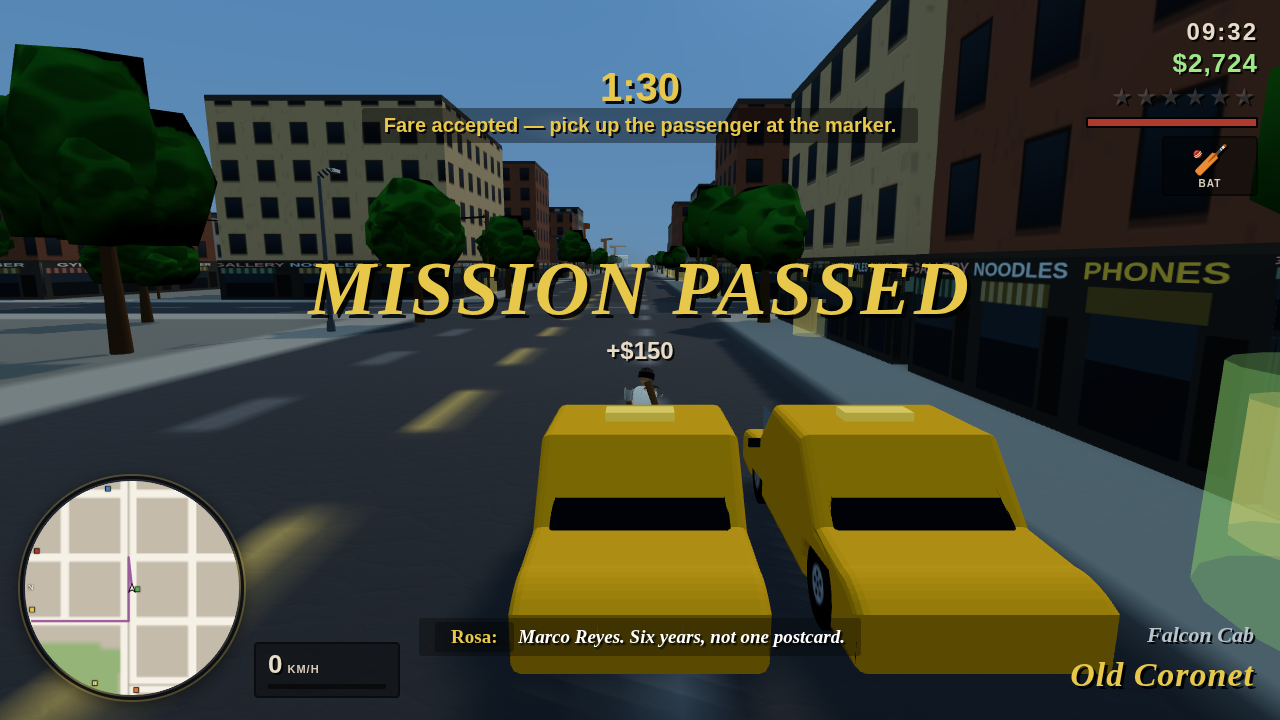
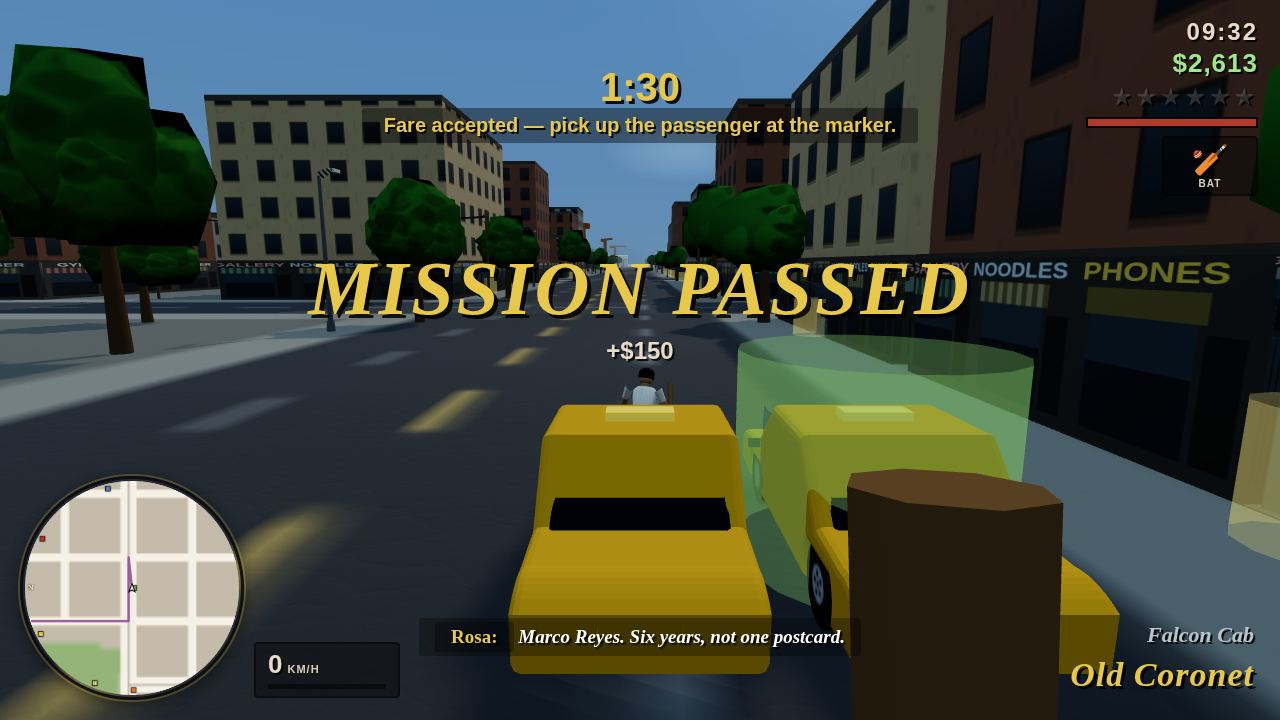
I4: NPCs sense the world — sight cones, hearing beats, discovery, memory
- Pedestrians have a real field of view (~110°, 28m, wall-checked line of
  sight). Nothing reacts to what it cannot see anymore.
- Loud events (gunshots, explosions, crashes, screams, car alarms) are
  heard, not known: peds out of view freeze, turn toward the sound, and
  react after a personality-scaled beat.
- Walking around with a gun out makes people who actually SEE it nervous —
  timid ones clear off, civic-minded ones may call the police.
- Corpses are discovered: walking into view of a body triggers a scream,
  flight, or a police call.
- Sprinting into someone makes them stumble and protest, and they keep
  their distance from you for a while afterwards.
- Gang corners are owned turf: linger and you get a warning; stay and the
  whole corner jumps you.
- Carjack victims scream as they're pulled out; heads turn.
- test/senses.mjs wired into npm test.

Claude-Session: https://claude.ai/code/session_01H4wwD5yAZ1wPBuduGiv7Fk

diff --git a/src/entities/ped.js b/src/entities/ped.js
@@ -112,6 +112,30 @@ export class Ped {
     }
   }
 
+  // ---- senses ----------------------------------------------------
+  // sight: ~110° cone, limited range, real line of sight through walls
+  seePoint(x, z, { fov = 1.92, range = 28 } = {}) {
+    const dx = x - this.pos.x, dz = z - this.pos.z;
+    const d = Math.hypot(dx, dz);
+    if (d > range) return false;
+    if (d > 1.2) {
+      let rel = Math.atan2(dx, dz) - this.heading;
+      while (rel > Math.PI) rel -= Math.PI * 2;
+      while (rel < -Math.PI) rel += Math.PI * 2;
+      if (Math.abs(rel) > fov / 2) return false;
+    }
+    return this.game?.wanted?.lineOfSight(
+      this.pos.x, this.pos.y + 1.5, this.pos.z, x, this.pos.y + 1.2, z) ?? true;
+  }
+
+  // hearing: something loud happened out of view — turn toward it, take a
+  // beat to understand, THEN react. No more psychic instant panics.
+  hearThreat(x, z, kind) {
+    if (this.dead || this.state === 'driver' || this.panicked || this.alarm) return;
+    const b = this.personality?.bravery ?? 0.4;
+    this.alarm = { x, z, kind, t: 0.25 + (1 - b) * 0.45 + Math.random() * 0.25 };
+  }
+
   panic(fromX, fromZ, directlyTargeted = false) {
     if (this.dead || this.state === 'driver') return;
     // already reacting? repeated scares escalate to flat-out fleeing
@@ -184,8 +208,8 @@ export class Ped {
     game.audio?.scream(this.pos.x, this.pos.z);
     game.gore?.blood.pool(this.pos.x, this.pos.z, this.interiorY ?? undefined);
     game.state.stats.kills++;
-    // panic everyone nearby
-    game.peds?.panicAt(this.pos.x, this.pos.z, 26);
+    // the death scream carries — those who see it panic, others turn to look
+    game.peds?.senseEvent?.(this.pos.x, this.pos.z, 'scream');
     // drop some cash; an ambulance may come for the body
     game.worldlife?.dropCash?.(this.pos.x, this.pos.z, 10 + Math.floor(Math.random() * 30));
     game.dispatch?.reportDeath(this);
@@ -217,6 +241,65 @@ export class Ped {
     }
     this.stateT += dt;
     const player = game.player;
+
+    // heard something: freeze, turn toward the sound, then react
+    if (this.alarm && this.state !== 'fight' && this.state !== 'driver') {
+      const a = this.alarm;
+      this.speed = 0;
+      this.rig.setAnim('idle');
+      this.heading = angleDamp(this.heading,
+        Math.atan2(a.x - this.pos.x, a.z - this.pos.z), 7, dt);
+      a.t -= dt;
+      if (a.t <= 0) {
+        this.alarm = null;
+        this.panic(a.x, a.z);
+      }
+      this.rig.update(dt, 0);
+      this.syncRig();
+      return;
+    }
+
+    // fear memory: someone who barrelled into you keeps their distance
+    if (this.avoidPlayerT > 0) {
+      this.avoidPlayerT -= dt;
+      const dxp = this.pos.x - player.pos.x, dzp = this.pos.z - player.pos.z;
+      const dp = Math.hypot(dxp, dzp);
+      if (dp < 3.5 && dp > 0.01 && !player.vehicle) {
+        this.pos.x += (dxp / dp) * dt * 1.6;
+        this.pos.z += (dzp / dp) * dt * 1.6;
+      }
+    }
+
+    // gang corners are owned turf: linger and you get warned, then jumped
+    if (this.archetype === 'gangster' && this.loiter && !this.dead &&
+        !player.dead && !player.vehicle && this.state !== 'fight') {
+      const dg = dist2d(this.pos.x, this.pos.z, player.pos.x, player.pos.z);
+      if (dg < 6) {
+        this._lingerT = (this._lingerT ?? 0) + dt;
+        if (this._lingerT > 4 && !this._warned) {
+          this._warned = true;
+          this.bark('bark_backoff');
+          this.heading = Math.atan2(player.pos.x - this.pos.x, player.pos.z - this.pos.z);
+        }
+        if (this._lingerT > 9) {
+          // the whole corner jumps you
+          this.state = 'fight';
+          this.panicked = true;
+          this.stateT = 0;
+          for (const buddy of game.peds?.peds ?? []) {
+            if (buddy !== this && !buddy.dead && buddy.archetype === 'gangster' &&
+                dist2d(buddy.pos.x, buddy.pos.z, this.pos.x, this.pos.z) < 15) {
+              buddy.state = 'fight';
+              buddy.panicked = true;
+              buddy.stateT = 0;
+            }
+          }
+        }
+      } else if (dg > 8) {
+        this._lingerT = 0;
+        this._warned = false;
+      }
+    }
 
     switch (this.state) {
       case 'wander': {

diff --git a/src/systems/peds.js b/src/systems/peds.js
@@ -28,6 +28,13 @@ export class PedSystem {
     const game = this.game;
     const p = game.player.pos;
 
+    // slow scanner: brandished weapons and corpse discovery (0.5s cadence)
+    this.scanT = (this.scanT ?? 0) - dt;
+    if (this.scanT <= 0) {
+      this.scanT = 0.5;
+      this.senseScan();
+    }
+
     // spawn up to target count
     this.spawnTimer -= dt;
     const density = this.densityAt(p.x, p.z);
@@ -80,6 +87,13 @@ export class PedSystem {
           const push = (R * 2 - d) * 0.5;
           a.pos.x -= (dx / d) * push;
           a.pos.z -= (dz / d) * push;
+          // sprinting into someone: they stumble, protest, and remember you
+          if (pl.speed2d > 5.5 && this.game.time - (a._bumpT ?? -9) > 3) {
+            a._bumpT = this.game.time;
+            a.rig.flinch?.();
+            a.bark?.('bark_backoff');
+            a.avoidPlayerT = 20;
+          }
         }
       }
     }
@@ -136,6 +150,72 @@ export class PedSystem {
     }
   }
 
+  // ---- senses ------------------------------------------------------
+  // a loud event: peds who SEE it panic at once; the rest hear it, turn
+  // toward the sound, and react after a beat
+  senseEvent(x, z, kind) {
+    const R = { gunshot: 34, explosion: 32, crash: 18, scream: 14, alarm: 20 }[kind] ?? 20;
+    for (const ped of this.peds) {
+      if (ped.dead || ped.inVehicle || ped.state === 'driver') continue;
+      const d = dist2d(ped.pos.x, ped.pos.z, x, z);
+      if (d > R) continue;
+      if (d < 6 || ped.seePoint?.(x, z, { range: R })) ped.panic(x, z);
+      else ped.hearThreat(x, z, kind);
+    }
+  }
+
+  senseScan() {
+    const game = this.game;
+    const player = game.player;
+    if (player.dead || game.state.mode !== 'play') return;
+
+    // brandishing: walking around with a gun out makes people who SEE it
+    // nervous — they clear off, and civic types may call it in
+    const gunOut = game.combat && !['fists', 'bat'].includes(game.combat.current);
+    const onFoot = !player.vehicle && !game.interiors?.playerInside;
+    if (gunOut && onFoot) {
+      for (const ped of this.peds) {
+        if (ped.dead || ped.panicked || ped.alarm || ped.isCop) continue;
+        if ((ped._waryT ?? 0) > game.time) continue;
+        const d = dist2d(ped.pos.x, ped.pos.z, player.pos.x, player.pos.z);
+        if (d > 14 || !ped.seePoint(player.pos.x, player.pos.z, { range: 14 })) continue;
+        ped._waryT = game.time + 8;
+        const P = ped.personality ?? {};
+        if ((P.civic ?? 0) > 0.65 && Math.random() < 0.4) {
+          ped.fleeFrom.x = player.pos.x; ped.fleeFrom.z = player.pos.z;
+          ped.panicked = true; ped.state = 'call'; ped.callT = 0; ped.stateT = 0;
+          ped.bark('bark_help');
+        } else if ((P.bravery ?? 0) < 0.45 || d < 6) {
+          ped.fleeFrom.x = player.pos.x; ped.fleeFrom.z = player.pos.z;
+          ped.panicked = true; ped.state = 'flee'; ped.stateT = 4;   // short scurry
+          ped.bark('bark_run');
+        }
+        // brave ones just stare — the head-tracking already sells it
+      }
+    }
+
+    // corpse discovery: walking into view of a body is an event
+    const corpses = this.peds.filter((c) => c.dead);
+    if (corpses.length) {
+      for (const ped of this.peds) {
+        if (ped.dead || ped.panicked || ped.alarm || ped._sawCorpse) continue;
+        for (const c of corpses) {
+          const d = dist2d(ped.pos.x, ped.pos.z, c.pos.x, c.pos.z);
+          if (d > 10 || !ped.seePoint(c.pos.x, c.pos.z, { range: 10 })) continue;
+          ped._sawCorpse = true;
+          ped.bark('bark_help');
+          if ((ped.personality?.civic ?? 0) > 0.55) {
+            ped.fleeFrom.x = c.pos.x; ped.fleeFrom.z = c.pos.z;
+            ped.panicked = true; ped.state = 'call'; ped.callT = 0; ped.stateT = 0;
+          } else {
+            ped.panic(c.pos.x, c.pos.z);
+          }
+          break;
+        }
+      }
+    }
+  }
+
   // every human a car or blast can hit: civilians, mission goons, foot
   // cops, and fire/medic crews working a scene
   hitTargets() {
@@ -160,7 +240,7 @@ export class PedSystem {
       const d = dist2d(ped.pos.x, ped.pos.z, x, z);
       if (d < radius && !ped.dead) ped.damage((radius - d) * 18, this.game, 'explosion');
     }
-    this.panicAt(x, z, radius * 4);
+    this.senseEvent(x, z, 'explosion');
   }
 
   checkRunOver(vehicle, speed) {
@@ -215,6 +295,9 @@ export class PedSystem {
   ejectDriver(pedLike, vehicle) {
     if (!pedLike || pedLike === 'player') return;
     const door = vehicle.seatWorldPos();
+    // the victim yells — anyone in earshot turns to look
+    this.game.audio?.scream?.(door.x, door.z);
+    this.senseEvent(door.x, door.z, 'scream');
     pedLike.inVehicle = null;
     pedLike.state = 'flee';
     pedLike.panicked = true;

diff --git a/src/systems/vehicles.js b/src/systems/vehicles.js
@@ -67,6 +67,7 @@ export class VehicleSystem {
     if (impact > 3 && this.game.time - (veh._lastCrashSfxT ?? -9) > 0.25) {
       veh._lastCrashSfxT = this.game.time;
       this.game.audio?.crash?.(impact, veh.pos.x, veh.pos.z);
+      if (impact > 7) this.game.peds?.senseEvent?.(veh.pos.x, veh.pos.z, 'crash');
       if (impact > 12) this.game.particles?.glassBurst(veh.pos.x, veh.pos.y + 1.0, veh.pos.z);
       if (veh.driver === 'player') this.game.cameraRig?.addShake(clamp(impact / 18, 0, 0.8));
     }
@@ -416,6 +417,10 @@ export class VehicleSystem {
         if (v._alarmBeep <= 0) {
           v._alarmBeep = 0.55;
           this.game.audio?.horn(v.pos.x, v.pos.z);
+          if (!v._alarmNoticed) {
+            v._alarmNoticed = true;   // heads turn when the alarm first trips
+            this.game.peds?.senseEvent?.(v.pos.x, v.pos.z, 'alarm');
+          }
         }
         v.updateLightState();
         if (v.alarmT <= 0) { v.alarmT = 0; v.updateLightState(); }

diff --git a/src/systems/combat.js b/src/systems/combat.js
@@ -390,7 +390,7 @@ export class CombatSystem {
     game.particles?.muzzleLight?.(mx, my, mz);
     game.audio?.gunshot(spec.sfx);
     game.wanted?.crime('gunfire', player.pos.x, player.pos.z);
-    game.peds?.panicAt(player.pos.x, player.pos.z, 34);
+    game.peds?.senseEvent?.(player.pos.x, player.pos.z, 'gunshot');
     game.cameraRig.addShake(spec.sfx === 'shotgun' ? 0.35 : 0.12);
     // recoil kick (stronger for big guns) + crosshair bloom
     const kick = spec.sfx === 'shotgun' ? 0.09 : spec.sfx === 'rifle' ? 0.05 : 0.035;